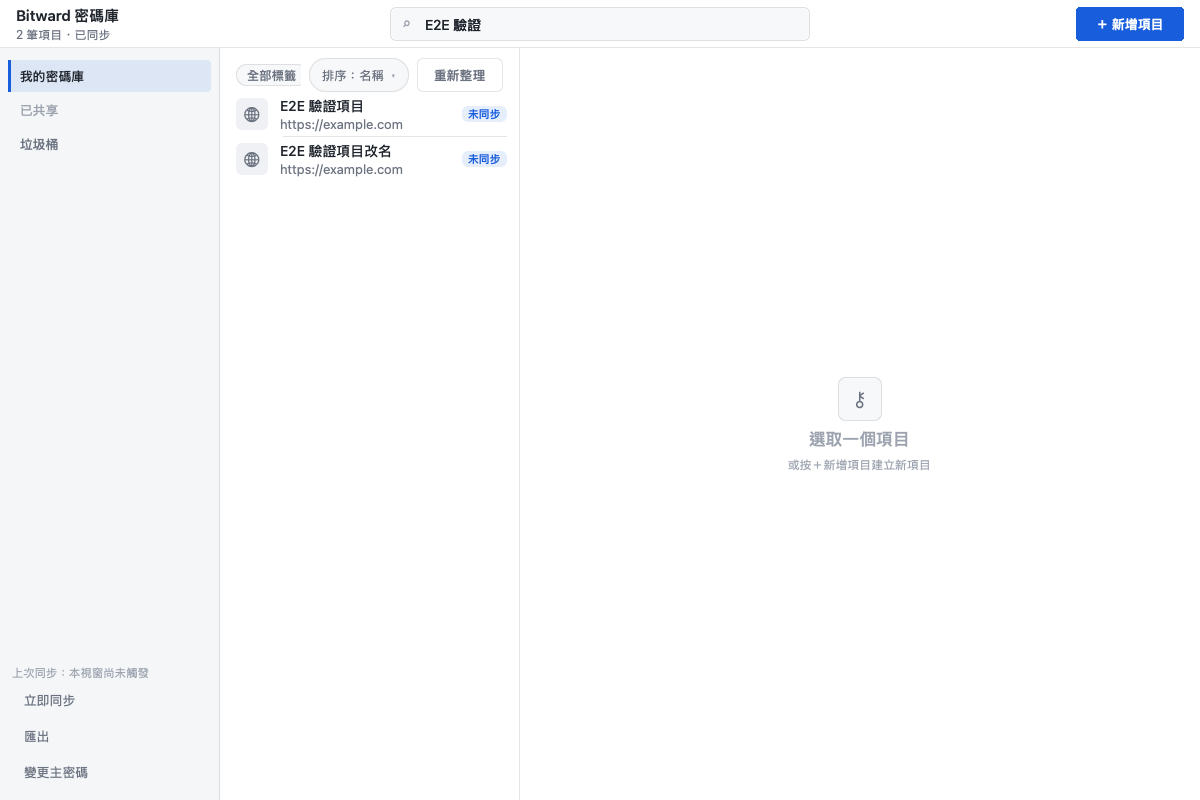
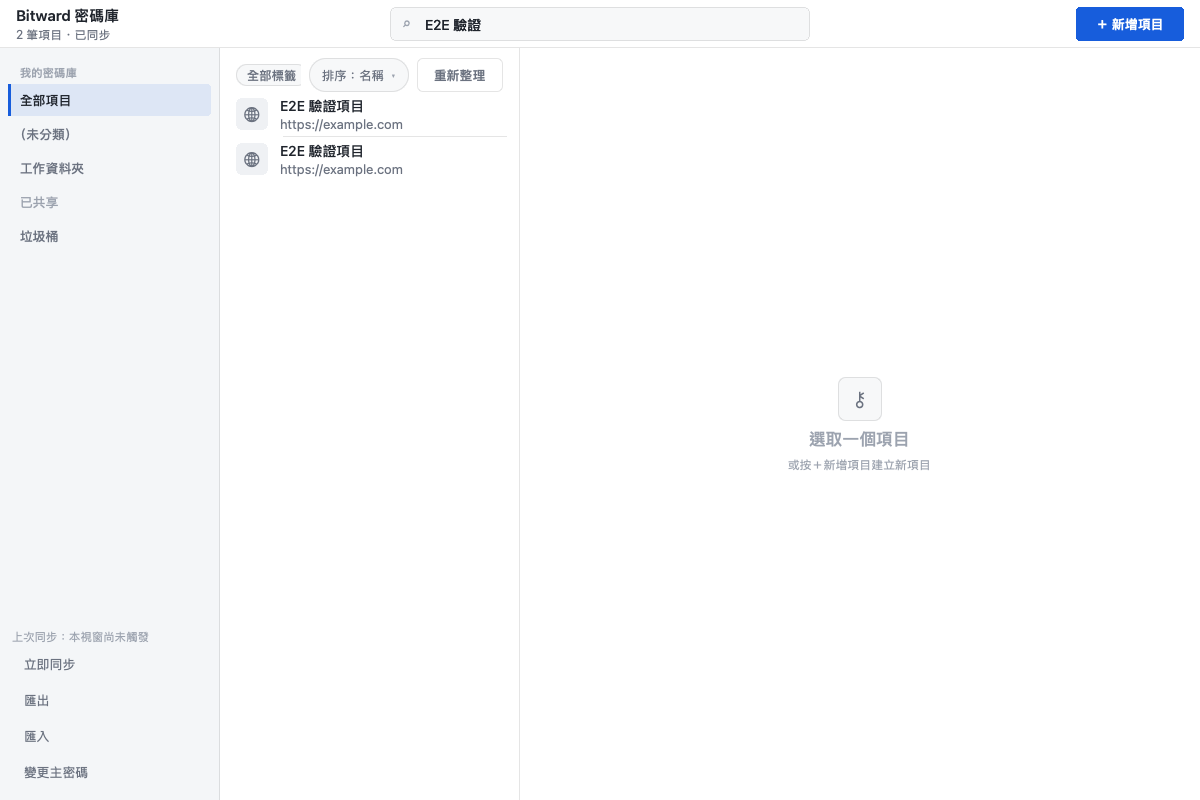
gui: 批次 2b 截圖證據（30 步 e2e 全綠；新增資料夾樹 26、SecureNote 27、自訂欄位 28、匯入 29–30）＋README 跟隨

diff --git a/apps/bitward-gui/src/shots.rs b/apps/bitward-gui/src/shots.rs
@@ -11,7 +11,7 @@ use std::time::{Duration, Instant};
 
 use nsh_core::prelude::*;
 
-use crate::state::{AppCore, Cmd};
+use crate::state::{AppCore, Cmd, FieldDraft};
 
 /// 在 AppKit main thread 上執行 `f`（macOS 限定；其餘平台直接跑）。
 #[cfg(target_os = "macos")]
@@ -222,7 +222,9 @@ fn find_view(core: &AppCore, name: &str) -> Option<bw_proto::ItemView> {
 /// 開窗後依序跑完整驗收流：列表全量（密度證據）→ 搜尋 → 詳情遮罩 → revealed → 新增表單
 /// 模態 → 提交新增 → 編輯改名 → 刪除確認（先取消斷言、再確認）→
 /// 匯出確認 → 鎖態頁/解鎖 → 選取態 → 垃圾桶（列表/還原動作/還原後列表）→
-/// 產生器面板 → TOTP 倒數三段（真取碼後偽造時間源示 30/10/5 秒比例），
+/// 產生器面板 → TOTP 倒數三段（真取碼後偽造時間源示 30/10/5 秒比例）→
+/// 資料夾樹歸屬過濾 → SecureNote 模態 → 自訂欄位編輯列 →
+/// 匯入模態（預覽/真跑/結果列），
 /// 各步存一張 shot-N-*.png 後結束行程。時序裕量對齊
 /// spike（Background
 /// session 無 vsync 可等，固定 sleep；本地 daemon 往返 <50ms）。
@@ -453,7 +455,112 @@ pub fn script(dir: PathBuf, core: AppCore) {
     });
     let d = dir.clone();
     at(38000, move || capture(&d, "shot-23-totp-5s.png"));
-    at(38600, quit);
+
+    // —— 資料夾樹：把「GitHub 測試」歸入工作資料夾 → 過濾態 ——
+    let c = core.clone();
+    at(39000, move || {
+        if let Some(id) = find_id(&c, "GitHub 測試") {
+            c.send(Cmd::OpenEdit(id));
+        }
+    });
+    let c = core.clone();
+    at(39800, move || {
+        let fid = folder_id_by_name(&c, "工作資料夾");
+        if !fid.is_empty() {
+            c.form.folder_id.set(fid);
+            c.send(Cmd::SubmitForm);
+        }
+    });
+    let c = core.clone();
+    at(41000, move || {
+        let fid = folder_id_by_name(&c, "工作資料夾");
+        if !fid.is_empty() {
+            c.send(Cmd::ChooseFolder(Some(fid)));
+        }
+    });
+    let d = dir.clone();
+    at(41800, move || capture(&d, "shot-26-folder-tree.png"));
+
+    // —— SecureNote 模態：帳密收合、備註大欄 ——
+    let c = core.clone();
+    at(42200, move || c.send(Cmd::OpenCreate));
+    let c = core.clone();
+    at(42600, move || {
+        c.form.kind.set(bw_proto::ItemKind::SecureNote);
+        c.form.name.set("2b 筆記範例".into());
+        c.form.notes.set("加密筆記內文：明文只進 Outgoing 幀。".into());
+    });
+    let d = dir.clone();
+    at(43200, move || capture(&d, "shot-27-securenote-modal.png"));
+
+    // —— 自訂欄位編輯列：切回登入、加一文字一隱藏欄 ——
+    let c = core.clone();
+    at(43600, move || {
+        c.form.kind.set(bw_proto::ItemKind::Login);
+        c.form.fields.set(std::sync::Arc::new(vec![
+            FieldDraft {
+                key: 1,
+                name: "API Key".into(),
+                value: "sk-demo-42".into(),
+                hidden: false,
+            },
+            FieldDraft {
+                key: 2,
+                name: "復原碼".into(),
+                value: "rc-7788".into(),
+                hidden: true,
+            },
+        ]));
+    });
+    let d = dir.clone();
+    at(44200, move || capture(&d, "shot-28-custom-fields.png"));
+    let c = core.clone();
+    at(44600, move || c.send(Cmd::SubmitForm));
+
+    // —— 匯入模態：fixture 預覽 → 真跑 → 結果列 ——
+    let fixture = std::env::temp_dir().join("bitward-gui-import-sample.json");
+    let _ = std::fs::write(
+        &fixture,
+        r#"[{"name":"匯入示範 A","username":"ia@example.com","password":"imp-a-1","uri":"https://imp-a.test","tags":["e2e"]},{"name":"匯入示範 B","username":"ib@example.com","password":null,"uri":null,"tags":[]},{"name":"","username":"skipme"}]"#,
+    );
+    let c = core.clone();
+    at(45800, move || c.send(Cmd::OpenImport));
+    let c = core.clone();
+    let fx = fixture.display().to_string();
+    at(46200, move || {
+        c.import_path.set(fx);
+        c.send(Cmd::ImportPreview);
+    });
+    let d = dir.clone();
+    at(47000, move || capture(&d, "shot-29-import-modal.png"));
+    let c = core.clone();
+    at(47400, move || c.send(Cmd::ImportRun));
+    let c = core.clone();
+    at(49000, move || {
+        let n = c.notice.get().unwrap_or_default();
+        println!("bitward-gui: import result = {n}");
+        assert!(n.contains("已匯入 2 筆"), "匯入執行結果列應為已匯入 2 筆：{n}");
+    });
+    let c = core.clone();
+    at(49200, move || c.send(Cmd::ChooseFolder(None)));
+    let c = core.clone();
+    at(49400, move || {
+        c.query.set("匯入示範".into());
+        c.send(Cmd::RefetchList);
+    });
+    let d = dir.clone();
+    at(50200, move || capture(&d, "shot-30-import-result.png"));
+    at(50800, quit);
+}
+
+/// 由資料夾鏡像找名字的 id（找不到回空字串）。
+fn folder_id_by_name(core: &AppCore, name: &str) -> String {
+    core.folders
+        .get()
+        .iter()
+        .find(|f| f.name.as_deref() == Some(name))
+        .map(|f| f.id.clone())
+        .unwrap_or_default()
 }
 
 /// 由目前列表訊號找名字完全相符的項目 id。

diff --git a/apps/bitward-gui/README.md b/apps/bitward-gui/README.md
@@ -33,7 +33,7 @@ cd apps/bitward-gui
 BITWARD_GUI_SOCK=<repo>/dev/e2e/demo/s NSH_GUI_SHOTS=$PWD nsh run --target macos
 ```
 
-依指令序列跑完整驗收流並寫 `shot-1..23-*.png` 後退出：列表全量（三欄骨架、
+依指令序列跑完整驗收流並寫 `shot-1..23、26..30-*.png`（24/25 見下）後退出：列表全量（三欄骨架、
 型別磚、未同步膠囊，右欄空態為「選取一個項目」佔位）→ 搜尋 "GitHub" →
 詳情遮罩 → 詳情 revealed → 新增表單模態 → 真送新增（Create+AddTag）
 → TOTP 拒絕路徑（無 seed → 錯誤橫條）→ 排序下拉 → 標籤 chips 選取 →
@@ -42,7 +42,11 @@ BITWARD_GUI_SOCK=<repo>/dev/e2e/demo/s NSH_GUI_SHOTS=$PWD nsh run --target macos
 選取態（清搜尋、開詳情；選中列淡藍底＋左 3px 藍條）→
 垃圾桶（軟刪條目＋刪除時間）→ 垃圾桶詳情（還原／永久刪除動作）→ 還原後回列表 →
 產生器面板展開（真送 Use:GeneratePassword 取草稿）→
-TOTP 倒數三段（真取碼後偽造時間源示 30/10/5 秒比例，5 秒段轉 warning 色）。
+TOTP 倒數三段（真取碼後偽造時間源示 30/10/5 秒比例，5 秒段轉 warning 色）→
+資料夾樹（把「GitHub 測試」歸入工作資料夾後過濾，側欄節點選中態）→
+SecureNote 模態（帳密收合、備註大欄、Card/Identity 佔位灰）→
+自訂欄位編輯列（文字＋隱藏兩列）→ 匯入模態（貼路徑→預覽計數）→
+匯入執行後結果列（已匯入 N／跳過 M，列內含匯入產物）。
 
 ### 徽章無感收斂證據（`NSH_GUI_SHOTS_DRAIN`）
 
@@ -58,9 +62,11 @@ BITWARD_GUI_SOCK=<drain-daemon.sock> NSH_GUI_SHOTS=$PWD NSH_GUI_SHOTS_DRAIN=1 \
   nsh run --target macos
 ```
 
-注意：垃圾桶需要 daemon 支援 `Query.deleted` 三態與 `ItemMeta.deleted_at`
-（批次 2a 資料面，DataModel 交付）；產生器的 `Use:GeneratePassword` 為既有呼叫面。
-跑前把 demo daemon 重啟為新構成品並 `bitward unlock`。
+注意：垃圾桶與資料夾需要 daemon 支援 `Query.deleted`／`Query.folder` 三態與
+`ListFolders`／`Vault:Restore`／`Vault:Purge`（主線三件套已落地）；產生器的
+`Use:GeneratePassword` 為既有呼叫面。匯入無 daemon 端點，走 GUI 本地解析＋
+逐筆 `Vault:Create` 兜底。跑前把 demo daemon 重啟為新構成品並 `bitward unlock`，
+且側欄「工作資料夾」需已存在（`bitward folder create 工作資料夾`）。
 
 注意：流裡會真寫 demo vault（建一筆 "E2E 驗證項目"、改名、軟刪；
 詳情目標是種子項目「GitHub 測試」，找不到退回第一筆）。跑前用
@@ -73,11 +79,12 @@ BITWARD_GUI_SOCK=<drain-daemon.sock> NSH_GUI_SHOTS=$PWD NSH_GUI_SHOTS_DRAIN=1 \
 |---|---|
 | `btp.rs` | BTP 精簡同步 client：u32 LE 長度前綴 + JSON 幀、`Hello{Enroll pair_code:null}`→`Welcome`→`Invoke`/`Reply`；鎖撤銷（A6）自動重連重 Enroll 一次；`listen` 事件監聽連線（wants 訂閱，OutboxDrained/VaultChanged 交 state 幫浦） |
 | `state.rs` | 應用狀態機：`AppCore`（訊號集）+ `Cmd` 命令佇列 + 唯一 `reduce`；UI handler 只投遞命令，worker 執行緒只回傳命令，訊號全在引擎執行緒寫入；`watch_events` 事件幫浦（斷線 1s 重連） |
-| `lib.rs` | 根元件 `App`：命令幫浦（`set_interval` 50ms + `batch`）、TOTP 心跳（1s 引擎計時器）、頂部列（置中搜尋＋新增項目）、左側欄（我的密碼庫/已共享佔位/垃圾桶/同步列/匯出/改密）、錯誤橫條、Phase×Route 三欄版面與鎖態頁 |
+| `lib.rs` | 根元件 `App`：命令幫浦（`set_interval` 50ms + `batch`）、TOTP 心跳（1s 引擎計時器）、頂部列（置中搜尋＋新增項目）、左側欄（我的密碼庫＋資料夾樹／已共享佔位／垃圾桶／同步列／匯出/匯入/改密）、錯誤橫條、Phase×Route 三欄版面與鎖態頁 |
 | `list.rs` | 置中搜尋框（Query.text 交 daemon FTS；掛頂部列）、標籤 chips 行＋排序/重新整理（中欄工具列）、排序選單、44px 列（型別磚單色字形、選中列淡藍底＋藍指示條）、未同步膠囊、垃圾桶條目顯示刪除時間、`virtual_list` |
 | `detail.rs` | 右欄詳情面板：官方表單感——大名稱＋型別磚，分節與官方同序（帳密／驗證碼／備註／自訂欄位／資訊），欄位為淺灰圓角值塊（label 12 粗灰在上、值 14 塊內、複製鈕塊右側）；垃圾桶條目動作改還原／永久刪除；密碼遮罩 →「顯示密碼」發 Get(Reveal)，明文只存 `revealed` 訊號、離開詳情即清；TOTP 按鈕發 Use:TotpCode＋倒數細进度條（≤5 秒轉 warning） |
-| `form.rs` | 新增/編輯模態（elevated 卡＋背板點擊取消；name/username/password/uri/tags）；密碼欄附產生器面板（長度滑桿、字元集開關、草稿套用） |
+| `form.rs` | 新增/編輯模態（elevated 卡＋背板點擊取消）：型別切換（登入/加密筆記可選，Card/Identity 佔位）、資料夾下拉（ListFolders）、name/username/password/uri/tags/notes/自訂欄位編輯列；密碼欄附產生器面板 |
 | `passgen.rs` | 產生器純狀態機：長度夾取（8–64、預設 20）、字元集開關、policy JSON（`Use:GeneratePassword` 欄名契約）；隨機數在 daemon |
+| `import.rs` | 官方 JSON 匯入器（本地兜底）：吃官方未加密匯出與本 App 匯出兩形態、解析計數純函數、逐筆 `Vault:Create`＋tags；加密檔擋下 |
 | `export.rs` | 未加密 JSON 匯出：逐筆 Get(Reveal) → `~/Downloads/bitward-export-<UTC>.json`（0600） |
 | `theme.rs` | 設計 tokens：官方淺色皮（白底、#175DDC 藍、6px 小圓角）、語意色、文字三級、密度常量（三欄寬/列高/字級/留白）、dark 色板保留（`dark` 子模組，下批切換）；視圖層唯一顏色與尺寸真相源，禁散落 hex／魔數 |
 | `ui.rs` | 共用小元件：按鈕（primary 藍實色/ghost/destructive）、型別磚（單色字形，monogram 退役）、徽章、表單欄、下拉列、模態殼（absolute 鋪滿 + 置中白卡）、確認/改密模態、複製鈕 |
